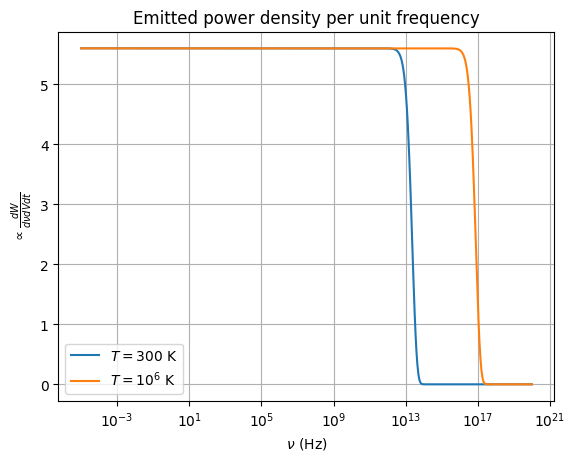
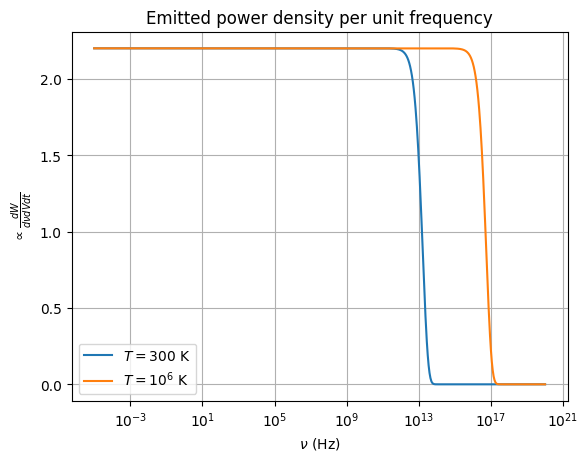
changed q6

diff --git a/asgn2/asgn2.tex b/asgn2/asgn2.tex
@@ -2,11 +2,8 @@
 % Change page layout
 \usepackage[margin=2cm]{geometry}
 \usepackage{xcolor}
-\usepackage{tensor}
 \usepackage{parskip}
 \usepackage{amsmath, amssymb}
-\usepackage{gensymb}
-\usepackage{cancel}
 \usepackage{hyperref}
 \usepackage{graphicx}
 \usepackage{caption}
@@ -197,26 +194,26 @@ The emitted power density per unit frequency is given by Rybicki and Lightman eq
 \begin{equation}
     \frac{dW}{d\omega dVdt}(v,\omega)=\frac{16\pi e^6}{3\sqrt{3}c^3m^2 v}n_en_iZ^2g_{ff}(v,\omega)
 \end{equation}
-Assuming the velocity distribution is given as a volume density in $(v_x,v_y,v_z)$ space, we need to do the integral
+We need to do the integral
 \begin{equation}
-    \frac{dW}{d\omega dVdt}(T,\omega) = \frac{\int_{v_{\text{min}}}^\infty dv\ \frac{dW}{d\omega dVdt}(v,\omega)v^6\exp\left(-\frac{mv^2}{2kT}\right)\left(1+0.3\times\left(\frac{mv^2}{kT}\right)\right)}{\int_0^\infty dv\ v^6\exp\left(-\frac{mv^2}{2kT}\right)\left(1+0.3\times\left(\frac{mv^2}{kT}\right)\right)}
+    \frac{dW}{d\omega dVdt}(T,\omega) = \frac{\int_{v_{\text{min}}}^\infty dv\ \frac{dW}{d\omega dVdt}(v,\omega)v^4\exp\left(-\frac{mv^2}{2kT}\right)\left(1+0.3\times\left(\frac{mv^2}{kT}\right)\right)}{\int_0^\infty dv\ v^4\exp\left(-\frac{mv^2}{2kT}\right)\left(1+0.3\times\left(\frac{mv^2}{kT}\right)\right)}
 \end{equation}
 where $v_{\text{min}}=\sqrt{2h\nu/m}$ and $\omega=2\pi\nu$.
 
 First let us compute the denominator.
 \begin{align}
-    \int_0^\infty dv\ v^6\exp\left(-\frac{mv^2}{2kT}\right)\left(1+0.3\times\left(\frac{mv^2}{kT}\right)\right) &= \frac{1}{2}\left(\frac{2kT}{m}\right)^{7/2}\Gamma\left(\frac{7}{2}\right) + 0.3\times\left(\frac{2kT}{m}\right)^{7/2}\Gamma\left(\frac{9}{2}\right)\\
-    &=2.9\sqrt{\pi}\left(\frac{2kT}{m}\right)^{7/2}
+    \int_0^\infty dv\ v^4\exp\left(-\frac{mv^2}{2kT}\right)\left(1+0.3\times\left(\frac{mv^2}{kT}\right)\right) &= \frac{1}{2}\left(\frac{2kT}{m}\right)^{5/2}\Gamma\left(\frac{5}{2}\right) + 0.3\times\left(\frac{2kT}{m}\right)^{5/2}\Gamma\left(\frac{7}{2}\right)\\
+    &=0.94\sqrt{\pi}\left(\frac{2kT}{m}\right)^{5/2}
 \end{align}
 We straightforwardly used the properties and values of the gamma function in the above. Now we compute the numerator.
 \begin{align}
-    &=\frac{16\pi e^6}{3\sqrt{3}c^3m^2}n_en_iZ^2\int_{v_{\text{min}}}^\infty dv\ v^5\exp\left(-\frac{mv^2}{2kT}\right)\left(1+0.3\times\left(\frac{mv^2}{kT}\right)\right)g_{ff}(v,\omega)\label{eq:1}\\
-    &=\frac{16\pi e^6}{3\sqrt{3}c^3m^2}n_en_iZ^2\bar{g}_{ff}(v,\omega)\frac{1}{2}\left(\frac{2kT}{m}\right)^3\int_{h\nu/kT}^\infty dt\ t^2\exp\left(-t\right)\left(1+0.6t\right)\label{eq:2}\\
-    &=\frac{16\pi e^6}{3\sqrt{3}c^3m^2}n_en_iZ^2\bar{g}_{ff}\frac{1}{2}\left(\frac{2kT}{m}\right)^3\times\left[0.6\left(\frac{h\nu}{kT}\right)^3+2.8\left(\frac{h\nu}{kT}\right)^2+5.6\left(\frac{h\nu}{kT}\right)+5.6\right]\exp\left(-\frac{h\nu}{kT}\right)
+    &=\frac{16\pi e^6}{3\sqrt{3}c^3m^2}n_en_iZ^2\int_{v_{\text{min}}}^\infty dv\ v^3\exp\left(-\frac{mv^2}{2kT}\right)\left(1+0.3\times\left(\frac{mv^2}{kT}\right)\right)g_{ff}(v,\omega)\label{eq:1}\\
+    &=\frac{8\pi e^6}{3\sqrt{3}c^3m^2}n_en_iZ^2\bar{g}_{ff}(v,\omega)\left(\frac{2kT}{m}\right)^2\int_{h\nu/kT}^\infty dt\ t\exp\left(-t\right)\left(1+0.6t\right)\label{eq:2}\\
+    &=\frac{8\pi e^6}{3\sqrt{3}c^3m^2}n_en_iZ^2\bar{g}_{ff}\left(\frac{2kT}{m}\right)^2\left[0.6\left(\frac{h\nu}{kT}\right)^2+2.2\left(\frac{h\nu}{kT}\right)+2.2\right]\exp\left(-\frac{h\nu}{kT}\right)
 \end{align}
 We extracted $g_{ff}$ as a thermal averaged constant in going from (\ref{eq:1}) to (\ref{eq:2}). So finally we get
 \begin{equation}
-    \frac{dW}{d\nu dVdt}(T,\omega) = \frac{1.06\pi e^6}{c^3m^2}n_en_iZ^2\bar{g}_{ff}\left(\frac{2kT}{\pi m}\right)^{-1/2}\left[0.6\left(\frac{h\nu}{kT}\right)^3+2.8\left(\frac{h\nu}{kT}\right)^2+5.6\left(\frac{h\nu}{kT}\right)+5.6\right]\exp\left(-\frac{h\nu}{kT}\right)
+    \frac{dW}{d\nu dVdt}(T,\omega) = \frac{3.28\pi e^6}{c^3m^2}n_en_iZ^2\bar{g}_{ff}\left(\frac{2kT}{\pi m}\right)^{-1/2}\left[0.6\left(\frac{h\nu}{kT}\right)^2+2.2\left(\frac{h\nu}{kT}\right)+2.2\right]\exp\left(-\frac{h\nu}{kT}\right)
 \end{equation}
 \begin{figure}[h]
   \begin{center}

diff --git a/asgn2/q6.py b/asgn2/q6.py
@@ -6,7 +6,7 @@ k=1.380649e-23
 
 def f(nu, T):
     a = h * nu / (k * T)
-    return np.exp(-a) * (0.6 * a ** 3 + 2.8 * a ** 2 + 5.6 * a + 5.6)
+    return np.exp(-a) * (0.6 * a ** 2 + 2.2 * a + 2.2)
 
 nus = np.logspace(-5,20,1000)
 plt.plot(nus,f(nus, 300),label=r'$T=300$ K')
